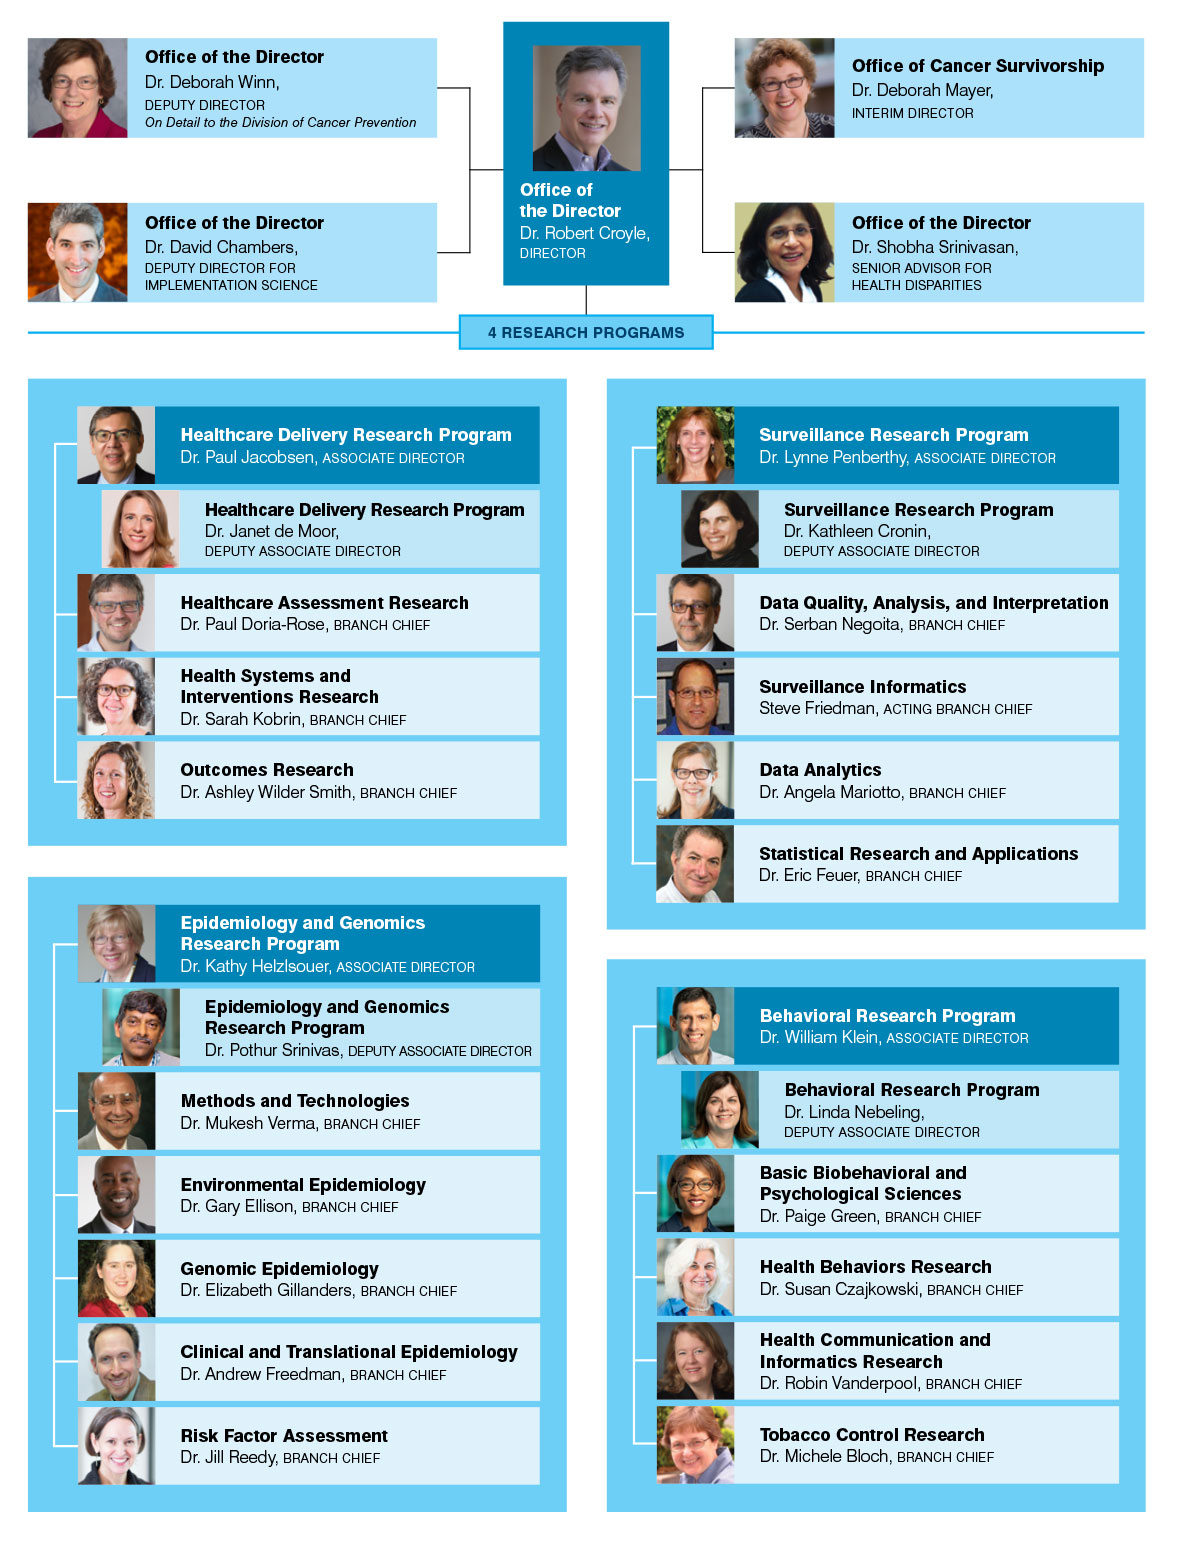
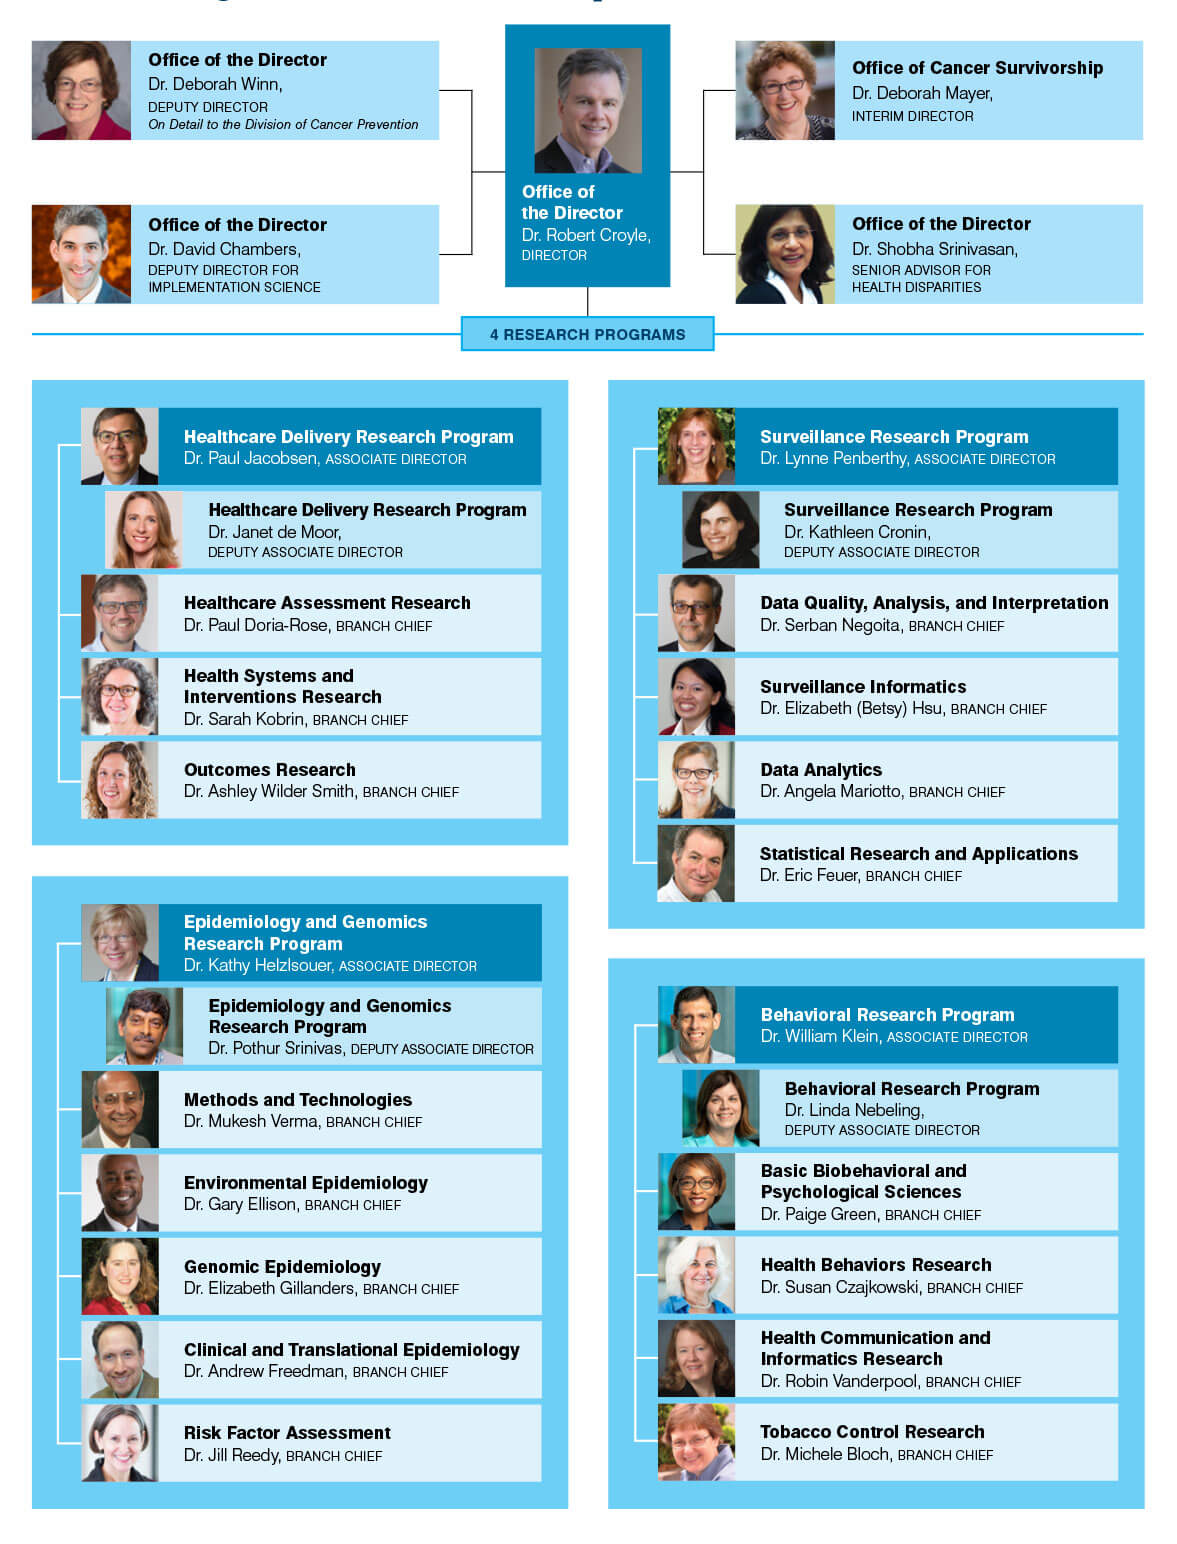
Org chart updates

diff --git a/od/orgchart.html b/od/orgchart.html
@@ -255,7 +255,7 @@ height="0" width="0" style="display:none;visibility:hidden" title="Google Tag Ma
 				<area shape="rect" coords="10,152,325,229" href="/IS/chambers.html" alt="Deputy Director for Implementation Science - Dr. David Chambers">
 				<area shape="rect" coords="491,617,841,679" href="https://surveillance.cancer.gov/branches/" alt="Statistical Methodology and Applications - Dr. Eric Feuer">
 				<area shape="rect" coords="49,993,399,1055" href="https://epi.grants.cancer.gov/clinical/" alt="Clinical and Translational Epidemiology Branch - Dr. Andrew Feedman">
-				<area shape="rect" coords="492,491,843,553" href="https://surveillance.cancer.gov/branches/" alt="Surveillance Informatics - Steve Friedman">
+				<area shape="rect" coords="492,491,843,553" href="https://surveillance.cancer.gov/branches/" alt="Surveillance Informatics - Betsy Hsu">
 				<area shape="rect" coords="49,1056,400,1118" href="https://epi.grants.cancer.gov/staff/reedy.html" alt="Risk Factor Assessment - Jill Reedy, Ph.D., M.P.H., R.D., Branch Chief">
 				<area shape="rect" coords="492,1055,849,1115" href="/brp/tcrb/"  alt="Tobacco Control Research Branch - Dr. Michele Bloch" >
 				<area shape="rect" coords="492,928,849,989" href="/brp/hbrb/index.html" alt="Health Behaviors Research Branch - Dr. Susan Czajkowski">
@@ -345,7 +345,7 @@ height="0" width="0" style="display:none;visibility:hidden" title="Google Tag Ma
 			<div class="row">
 				<div class="col-lg-12">
 					<p class="tagline">NIH...Turning Discovery Into Health<sup>®</sup></p>
-					<p class="update"><span class="bold">Last Updated:</span> <!-- InstanceBeginEditable name="Last Updated" -->September 10, 2019<!-- InstanceEndEditable --></p>
+					<p class="update"><span class="bold">Last Updated:</span> <!-- InstanceBeginEditable name="Last Updated" -->May 14, 2020<!-- InstanceEndEditable --></p>
 				</div> <!-- /.col-lg-12 -->
 			</div> <!-- /.row -->
 		</div><!-- /.col-md-8 .col-md-offset-1 -->

diff --git a/bb/leadership.html b/bb/leadership.html
@@ -502,12 +502,12 @@ j=d.createElement(s),dl=l!='dataLayer'?'&l='+l:'';j.async=true;j.src=
                                             </a> <!-- /.card -->
                                         </li>
                                         <li>
-                                            <a href="https://surveillance.cancer.gov/about/bios/friedmans.html" class="card" title="external link to bio" target="_blank">
-                                                <img class="card-img-headshot" src="images/headshots/orgchart-friedman.jpg" alt="headshot Dr. Steve Friedman">
+                                            <a href="https://surveillance.cancer.gov/about/staff.html" class="card" title="external link to bio" target="_blank">
+                                                <img class="card-img-headshot" src="images/headshots/orgchart-hsu.jpg" alt="headshot Dr. Betsy Hsu">
                                                 <div class="card-body">
                                                     <p class="card-text">
                                                         <b>Surveillance Informatics</b><br>
-                                                        Steve Friedman,<br>Acting Branch Chief
+                                                        Betsy Hsu,<br>Branch Chief
                                                     </p>
                                                 </div> <!-- /.card-body -->
                                                 <div class="ext-link"></div>
